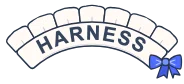
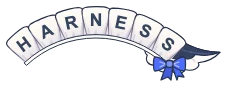
0.13.3: new HARNESS ribbon artwork

diff --git a/lib/client.js b/lib/client.js
@@ -441,11 +441,11 @@ window.__ModuleLoader__.load({
 				host.append(img);
 			}
 			img.style.cssText = "position:absolute;pointer-events:none;z-index:5;";
-			const w = badgeW * 1.35;
-			const h = w * (84 / 184);
+			const w = badgeW * 1.5;
+			const h = w * (90 / 228);
 			img.style.width = w + "px";
-			img.style.height = h + "px";
-			img.style.left = (badgeX - hr.left + badgeW / 2 - w / 2) + "px";
+			img.style.height = "auto";
+			img.style.left = (badgeX - hr.left) + "px";
 			img.style.top = (badgeY - hr.top + badgeH / 2 - h / 2) + "px";
 		}
 

diff --git a/CHANGELOG.md b/CHANGELOG.md
@@ -20,6 +20,11 @@ step, no runtime dependencies, only CSS tokens plus a few DOM decorations.
 - Dialog carries `isolation: isolate`; the artwork is its `::after` at
   `z-index: -1`, which keeps it above the frosted surface and below the content.
 
+## 0.13.3
+
+- New HARNESS ribbon artwork (whale-tail version), sized 1.5x the badge width
+  and left-aligned to the badge so it never covers "deepseek".
+
 ## 0.13.1
 
 - Key the brand colour, badge hiding and ribbon on the wordmark SVG
